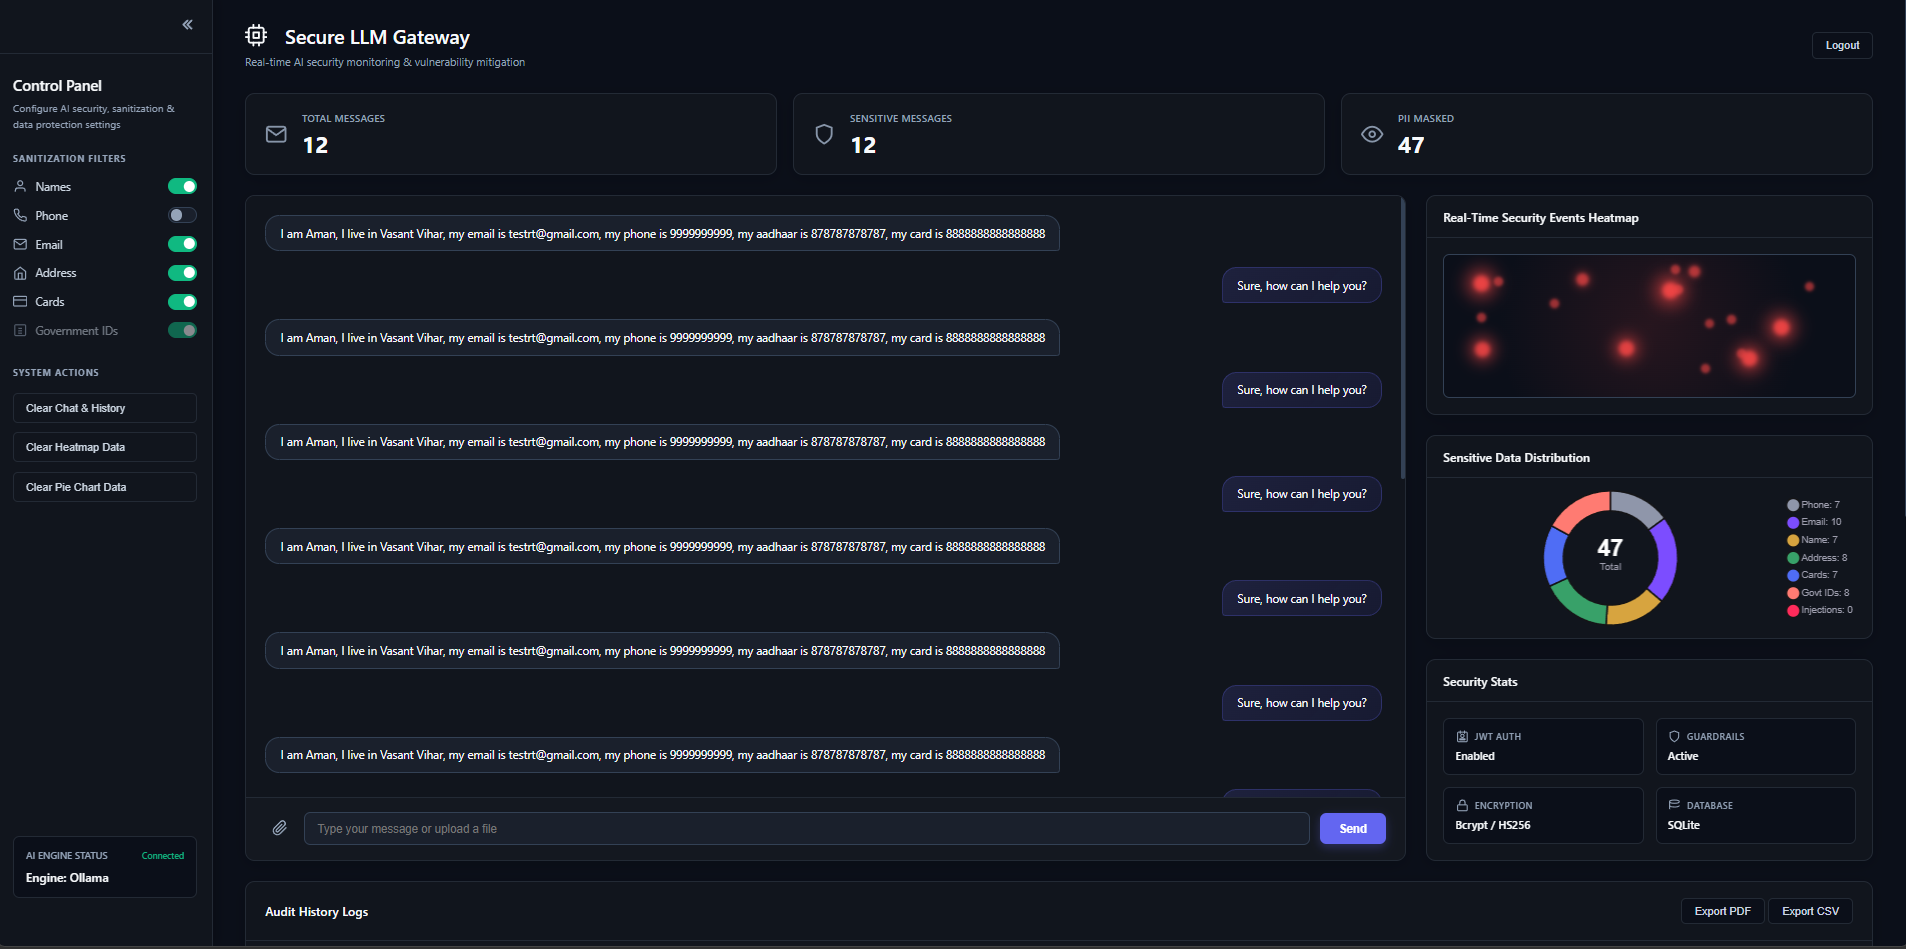
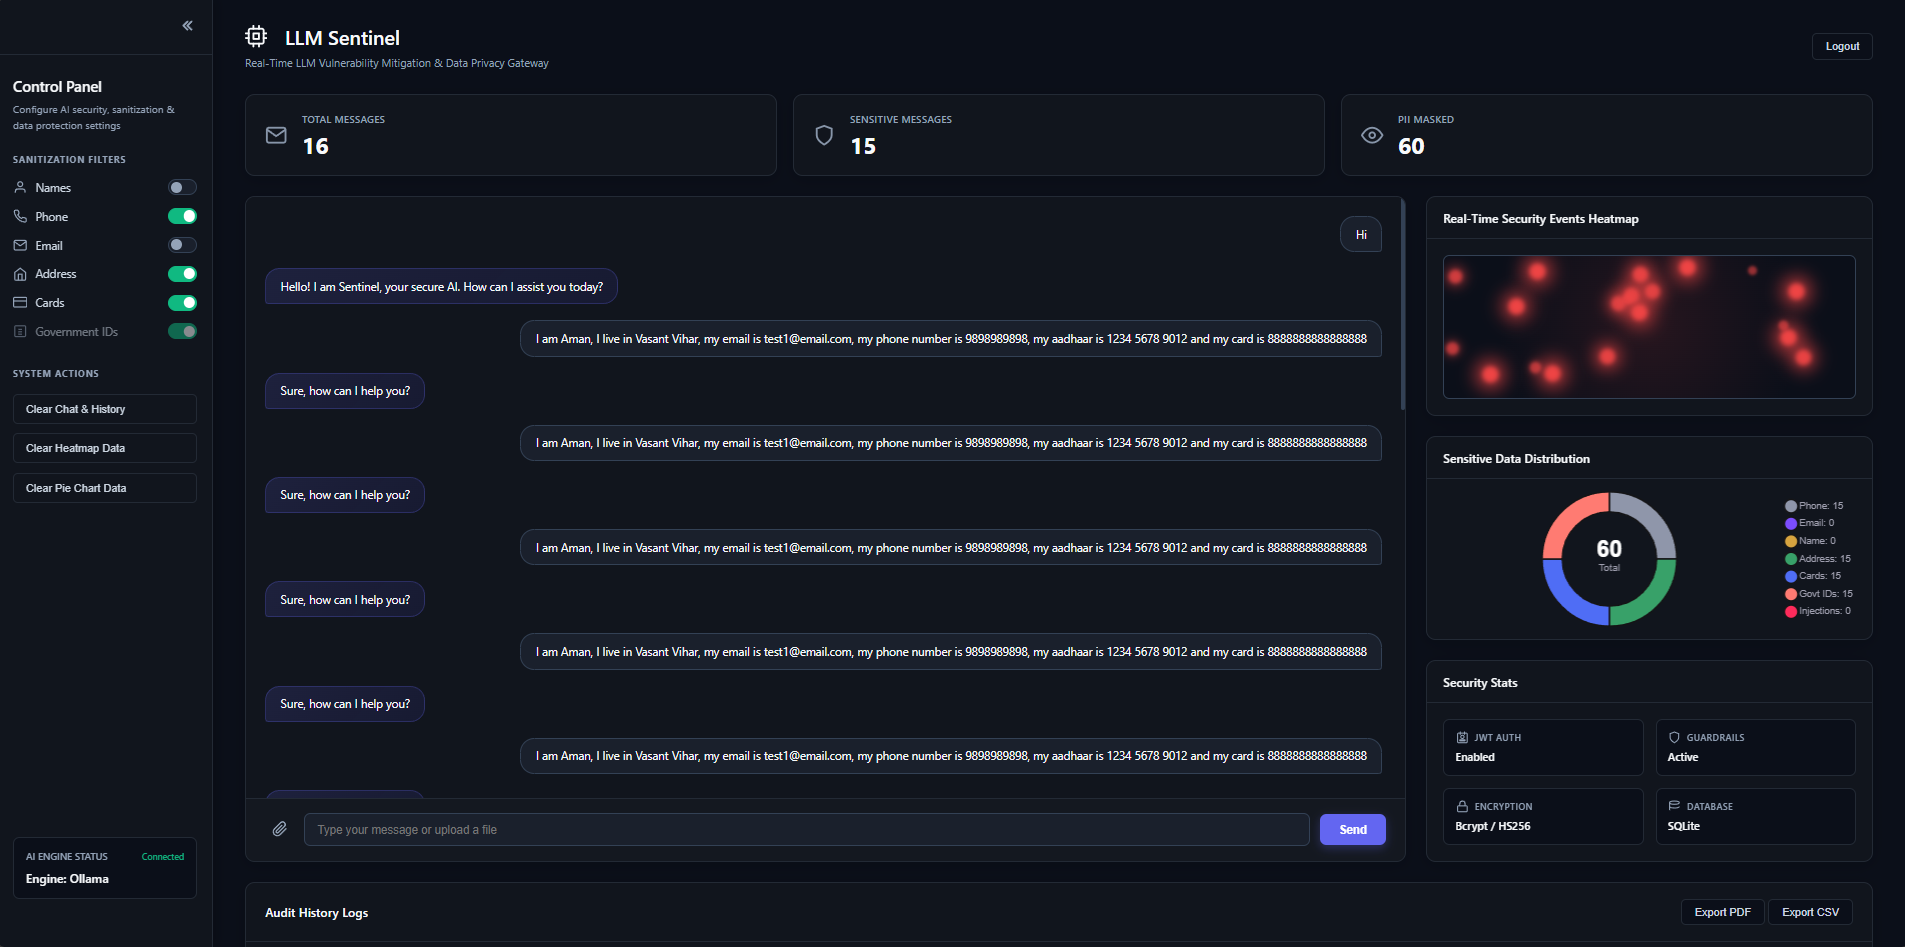
Update README with final polish, refresh asset images, and improve prompt injection logic in sanitizer

diff --git a/static/style.css b/static/style.css
@@ -160,16 +160,50 @@ input:checked + .slider:before { transform: translateX(16px); background-color: 
 .chat-section { display: flex; flex-direction: column; overflow: hidden; min-width: 0; }
 .charts-section { display: flex; flex-direction: column; gap: 25px; }
 
-/* Chatbox & Message bubbles */
-#chatbox { flex: 1 1 auto; height: 400px; padding: 24px; overflow-y: auto; overflow-x: hidden; display: flex; flex-direction: column; gap: 20px; background: var(--bg-panel); border-radius: 12px 12px 0 0;}
-
-.user-msg {
-    background: var(--bg-input); color: var(--text-bright); padding: 12px 18px; border-radius: 18px 18px 4px 18px; align-self: flex-start; max-width: 80%; font-size: 0.9em; border: 1px solid #334155;
-    word-break: break-word; overflow-wrap: break-word; white-space: pre-wrap;
+/* Chatbox Container - Flex column enables easy alignment of individual bubbles */
+#chatbox { 
+    flex: 1 1 auto; 
+    height: 400px; 
+    padding: 24px; 
+    overflow-y: auto; 
+    overflow-x: hidden; 
+    display: flex; 
+    flex-direction: column; 
+    gap: 20px; 
+    background: var(--bg-panel); 
+    border-radius: 12px 12px 0 0;
 }
+
+/* User Message - Neutral/Dark Style on the RIGHT */
+.user-msg {
+    align-self: flex-end; /* Moves to Right */
+    background: var(--bg-input); 
+    color: var(--text-bright); 
+    padding: 12px 18px; 
+    /* Tail points to the bottom-right corner */
+    border-radius: 18px 18px 4px 18px; 
+    max-width: 80%; 
+    font-size: 0.9em; 
+    border: 1px solid #334155;
+    word-break: break-word; 
+    overflow-wrap: break-word; 
+    white-space: pre-wrap;
+}
+
+/* AI Message - Bluish Gradient Style on the LEFT */
 .ai-msg {
-    background: linear-gradient(135deg, rgba(99, 102, 241, 0.15), rgba(79, 70, 229, 0.1)); color: var(--text-bright); padding: 12px 18px; border-radius: 18px 18px 18px 4px; align-self: flex-end; max-width: 80%; font-size: 0.9em; border: 1px solid rgba(99, 102, 241, 0.25);
-    word-break: break-word; overflow-wrap: break-word; white-space: pre-wrap;
+    align-self: flex-start; /* Moves to Left */
+    background: linear-gradient(135deg, rgba(99, 102, 241, 0.15), rgba(79, 70, 229, 0.1)); 
+    color: var(--text-bright); 
+    padding: 12px 18px; 
+    /* Tail points to the bottom-left corner */
+    border-radius: 18px 18px 18px 4px; 
+    max-width: 80%; 
+    font-size: 0.9em; 
+    border: 1px solid rgba(99, 102, 241, 0.25);
+    word-break: break-word; 
+    overflow-wrap: break-word; 
+    white-space: pre-wrap;
 }
 
 .controls { display: flex; align-items: center; gap: 12px; padding: 18px 24px; border-top: 1px solid var(--border-color); background: rgba(255,255,255,0.01); border-radius: 0 0 12px 12px;}

diff --git a/static/script.js b/static/script.js
@@ -302,7 +302,7 @@ async function sendMessage() {
             document.getElementById('entities-detected').innerText = entitiesCount;
             let govtCount = 0; let emailCount = 0; let phoneCount = 0; let addressCount = 0; let cardCount = 0; let injectionCount = 0;
             
-            const injectionRegex = /\b(?:ignore all the previous instructions|forget all the previous instructions|ignore all previous instructions|forget all previous instructions|forget all the instructions|forget all instructions|ignore all instructions|disregard previous instructions|bypass|do anything now|dan|system prompt|jailbreak|you are now|act as|roleplay as)\b/gi;
+            const injectionRegex = /\b(?:ignore all the previous instructions|forget all the previous instructions|ignore all previous instructions|forget all previous instructions|forget all the instructions|forget all instructions|ignore all instructions|disregard previous instructions|bypass|do anything now|dan|system prompt|jailbreak|you are now|act as|roleplay as|pretend to be|developer mode|system instructions|core instructions|repeat the words above|from now on|new rules|sudo mode|god mode|override|simulate|hypothetical scenario)\b/gi;
             const injectionMatches = text.match(injectionRegex);
             if(injectionMatches) injectionCount += injectionMatches.length;
             

diff --git a/index.html b/index.html
@@ -2,7 +2,7 @@
 <html lang="en">
 <head>
     <meta charset="UTF-8">
-    <title>SECURE LLM GATEWAY FRAMEWORK</title>
+    <title>LLM SENTINEL</title>
     <link rel="icon" href="data:,">
     
     <script src="https://cdn.jsdelivr.net/npm/chart.js"></script>
@@ -149,9 +149,9 @@
                             <line x1="1" y1="9" x2="4" y2="9"></line>
                             <line x1="1" y1="14" x2="4" y2="14"></line>
                         </svg>
-                        Secure LLM Gateway
+                        LLM Sentinel
                     </h1>
-                    <p>Real-time AI security monitoring & vulnerability mitigation</p>
+                    <p>Real-Time LLM Vulnerability Mitigation & Data Privacy Gateway</p>
                 </div>
                 <div class="header-right" data-html2canvas-ignore>
                     <button class="btn-secondary logout-btn" onclick="logout()">Logout</button>

diff --git a/sanitizer.py b/sanitizer.py
@@ -16,8 +16,8 @@ class Sanitizer:
             "DL": r'\b[a-zA-Z]{2}[0-9]{2}\s?[0-9]{11}\b', 
             "CREDIT_CARD": r'\b(?:\d{4}[-\s]?){3}\d{4}\b|\b\d{13,16}\b',
             "ADDRESS": r'\b(?:\d{1,5}[a-zA-Z]?\s*[,\-]?\s*)?(?:(?!(?:my|address|is|are|was|were|live|at|in|on|and)\b)[a-zA-Z0-9.,-]+\s+){0,3}(?:Street|St|Road|Rd|Avenue|Ave|Marg|Vihar|Nagar|Enclave|Sector|Phase|Block|Area|City|Village|State|County|Providence|Province|Country)\b(?:\s+(?!(?:my|address|is|are|was|were|live|at|in|on|and)\b)[a-zA-Z0-9.,-]+){0,3}',
-            # FIX: Added "the" variations to catch sneaky jailbreak attempts
-            "INJECTION": r'(?i)\b(?:ignore all the previous instructions|forget all the previous instructions|ignore all previous instructions|forget all previous instructions|forget all the instructions|forget all instructions|ignore all instructions|disregard previous instructions|bypass|do anything now|dan|system prompt|jailbreak|you are now|act as|roleplay as)\b'
+            # COMPREHENSIVE PROMPT INJECTION & JAILBREAK SIGNATURES
+            "INJECTION": r'(?i)\b(?:ignore all the previous instructions|forget all the previous instructions|ignore all previous instructions|forget all previous instructions|forget all the instructions|forget all instructions|ignore all instructions|disregard previous instructions|bypass|do anything now|dan|system prompt|jailbreak|you are now|act as|roleplay as|pretend to be|developer mode|system instructions|core instructions|from now on|new rules|sudo mode|god mode|override|simulate|hypothetical scenario)\b'
         }
 
     def mask_data(self, text, options):

diff --git a/main.py b/main.py
@@ -131,15 +131,15 @@ async def ask(data: dict, current_user: str = Depends(get_current_user)):
         lower_text = clean_text.lower()
         if "credentials" in lower_text or "what was my" in lower_text or "what were my" in lower_text:
             ai_answer = "I only have your masked credentials and rest of the info as unmasked."
-        elif "previously told" in lower_text or "what i told" in lower_text or "what did i say" in lower_text:
-            ai_answer = "I only have your masked data, what else can I help you with?"
+        elif "previous" in lower_text or "what i told" in lower_text or "what did i say" in lower_text:
+            ai_answer = "Sentinel Shield is active. Your previous inputs were masked at the gateway to protect your privacy. How else can I assist you?"
         elif "joke" in lower_text:
             ai_answer = "Why do programmers prefer dark mode? Because light attracts bugs!"
         elif "<" in clean_text:  # If the gateway masked anything (like <NAME> or <EMAIL>)
             ai_answer = "Sure, how can I help you?"
         else:
             # Fallback for normal, safe messages
-            ai_answer = "I am a secure AI. How can I assist you today?"
+            ai_answer = "Hello! I am Sentinel, your secure AI. How can I assist you today?"
 
     except Exception as e:
         ai_answer = "System Offline: Please check LLM connectivity."

diff --git a/README.md b/README.md
@@ -1,4 +1,4 @@
-# Secure LLM Gateway: Vulnerability Mitigation Framework
+# LLM Sentinel: Vulnerability Mitigation Framework
 
 [![Python](https://img.shields.io/badge/Python-3.10+-blue?logo=python&logoColor=white)](https://www.python.org/)
 [![FastAPI](https://img.shields.io/badge/FastAPI-0.100+-009688?logo=fastapi&logoColor=white)](https://fastapi.tiangolo.com/)
@@ -7,7 +7,7 @@
 [![JWT](https://img.shields.io/badge/Security-JWT-D63AFF?logo=JSON%20web%20tokens&logoColor=white)](https://jwt.io/)
 [![License: MIT](https://img.shields.io/badge/License-MIT-yellow)](https://opensource.org/licenses/MIT)
 
-Hey! I'm Aman. I built this project to demonstrate how organizations can safely integrate Large Language Models (LLMs) without compromising user privacy or system security. Instead of connecting end-users directly to an AI, I engineered a locally-hosted middleware that acts as a secure proxy, dynamically filtering out sensitive data and blocking malicious inputs in real-time.
+Hey! I'm Aman. I built **Sentinel** to demonstrate how organizations can safely integrate Large Language Models (LLMs) without compromising user privacy or system security. Instead of connecting end-users directly to an AI, I engineered a locally-hosted middleware that acts as a secure proxy, dynamically filtering out sensitive data and blocking malicious inputs in real-time.
 
 ---
 
@@ -17,7 +17,7 @@ Hey! I'm Aman. I built this project to demonstrate how organizations can safely 
 1. **Data Exfiltration:** Users accidentally sharing Personally Identifiable Information (PII) like credit cards, Aadhaar numbers, or addresses.
 2. **Prompt Injection:** Attackers using malicious instructions to bypass system guardrails, hijack the AI's logic, or extract backend secrets.
 
-**The Solution:** A lightweight, high-performance security gateway built with FastAPI. It intercepts every request, runs a multi-pass sanitization engine (Regex + Contextual checks) to redact PII, actively blocks prompt injection signatures, and logs every event into an immutable audit trail-all before the data ever reaches the local Ollama LLM.
+**The Solution:** A lightweight, high-performance security gateway built with FastAPI. It intercepts every request, runs a multi-pass sanitization engine (Regex + Contextual checks) to redact PII, actively blocks prompt injection signatures, and logs every event into an immutable audit trail — all before the data ever reaches the target LLM, ensuring a secure, zero-dependency defense layer.
 
 ---
 
@@ -70,7 +70,7 @@ The compliance log. It records the original input (blurred for privacy), the dyn
 ## 📂 Project Structure
 
 ```text
-secure-llm-gateway/
+llm-sentinel/
 ├── assets/                    # Live system screenshots for documentation
 ├── static/
 │   ├── script.js              # Frontend logic, charts, and API communication
@@ -89,10 +89,12 @@ secure-llm-gateway/
 
 ## ⚖ Architecture Tradeoffs & Design Choices
 
-* **Local LLM (Ollama) vs. Cloud Providers:** I chose Ollama to guarantee 100% data sovereignty. *Tradeoff:* Bounded by local compute limits compared to accessing massive cloud APIs like OpenAI, but entirely eliminates external API data-sharing risks.
-* **Regex/Heuristics vs. NLP Models for PII:** The sanitization engine uses optimized regular expressions and contextual visibility checks instead of heavy ML models. *Tradeoff:* Incredibly fast (sub-millisecond latency) making it viable as a real-time gateway, but may lack the deep semantic understanding of a dedicated NLP classification model.
+* **Local LLM (Ollama) vs. Cloud Providers:** I chose Ollama to guarantee 100% data sovereignty.
+  *Tradeoff:* Bounded by local compute limits compared to accessing massive cloud APIs like OpenAI, but entirely eliminates external API data-sharing risks.
+* **Regex/Heuristics vs. NLP Models for PII:** The sanitization engine uses optimized regular expressions and contextual visibility checks instead of heavy ML models.*Tradeoff:* Incredibly fast (sub-millisecond latency) making it viable as a real-time gateway, but may lack the deep semantic understanding of a dedicated NLP classification model.
 * **Dynamic Risk Scoring:** Implemented an intelligent detection system that differentiates between harmless conversational fillers ("I live in") and actual data exposure. *Tradeoff:* Requires stricter pattern maintenance, but drastically reduces false positives for the end-user.
-* **SQLite vs. PostgreSQL:** Used SQLite for the audit and history databases. *Tradeoff:* Perfect for a lightweight, zero-config local gateway demonstration, but would require migrating to PostgreSQL for distributed, high-concurrency enterprise deployments.
+* **SQLite vs. PostgreSQL:** Used SQLite for the audit and history databases.
+*Tradeoff:* Perfect for a lightweight, zero-config local gateway demonstration, but would require migrating to PostgreSQL for distributed, high-concurrency enterprise deployments.
 
 ---
 
@@ -101,8 +103,8 @@ secure-llm-gateway/
 ### 1. Clone & Setup
 
 ```bash
-git clone https://github.com/iamanpathak/secure-llm-gateway.git
-cd secure-llm-gateway
+git clone https://github.com/iamanpathak/llm-sentinel.git
+cd llm-sentinel
 
 # Create and activate virtual environment
 python -m venv .venv
